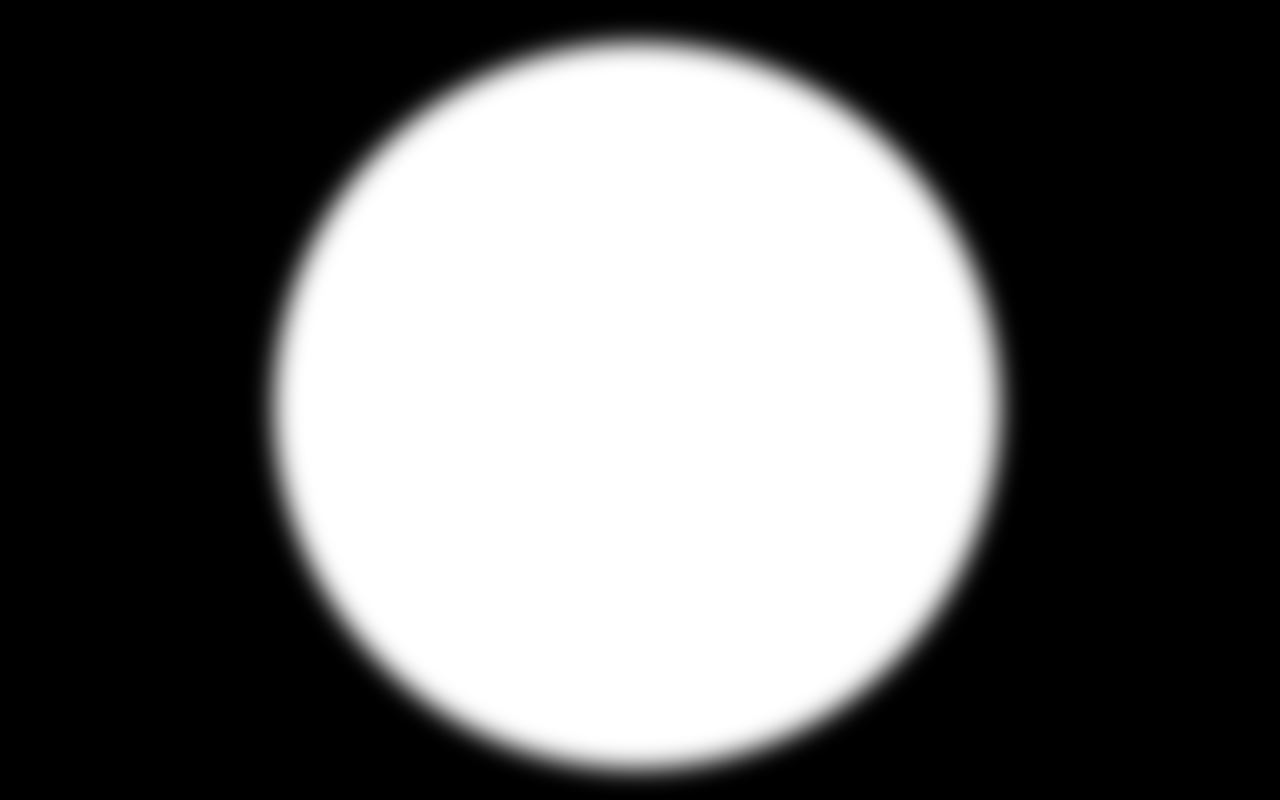
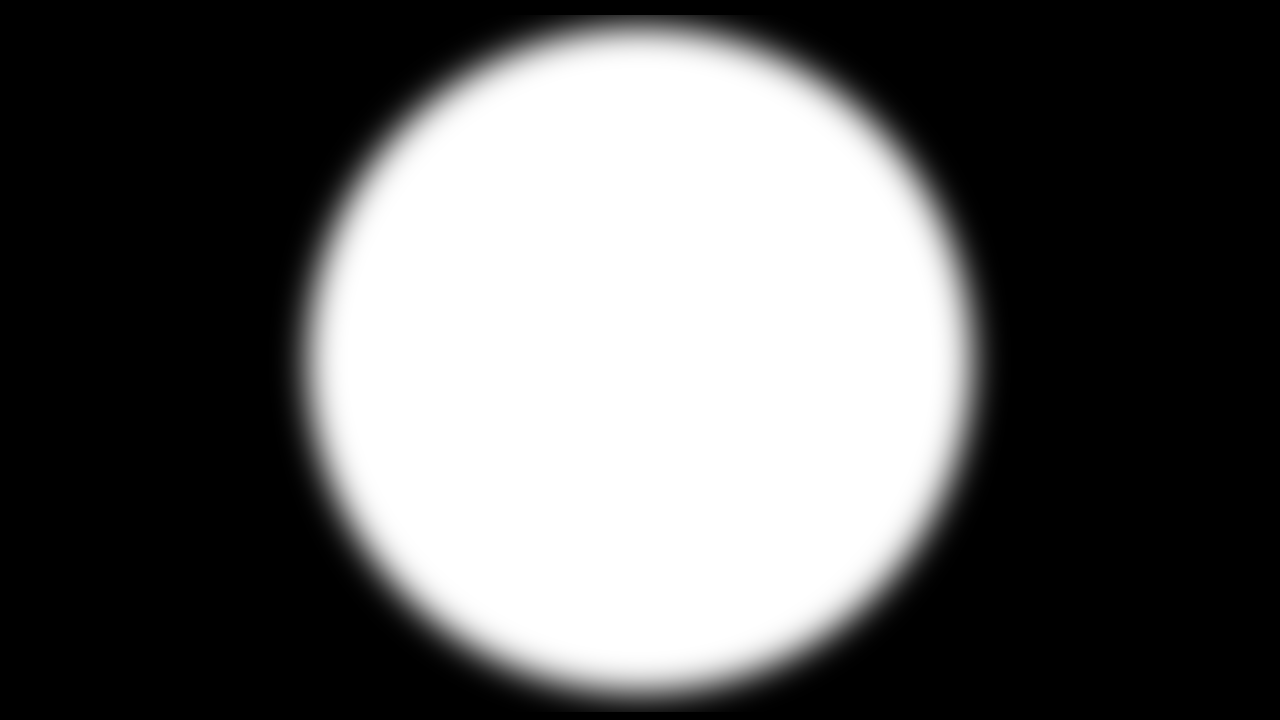
ok

Changed region(s): [[0.1875, 0.0, 0.8125, 1.0]]

diff --git a/src/ofApp.cpp b/src/ofApp.cpp
@@ -29,6 +29,11 @@ void ofApp::setup()
     gui.setup(jentikcam.parameters);
     gui.add(btntest.setup("DESTROY"));
 
+
+    cout << ofGetWidth() << "\n";
+    cout << ofGetHeight() << "\n";
+
+
     ofAddListener(gui.savePressedE, this, &ofApp::guiSave);
     ofAddListener(gui.loadPressedE, this, &ofApp::guiLoad);
 
@@ -45,6 +50,10 @@ void ofApp::setup()
 
     effectsFBO.allocate(ofGetWidth(), ofGetHeight());
     fxGlitch.setup(&effectsFBO);
+
+    light.setup("192.168.43.66", 8888);
+
+    bGui = false;
 
 }
 
@@ -76,7 +85,8 @@ void ofApp::draw()
     ofBackground(0);
     fxGlitch.generateFx();
     effectsFBO.draw(0,0);
-    gui.draw();
+
+    if(bGui) gui.draw();
 }
 
 void ofApp::keyPressed(int key)
@@ -88,9 +98,18 @@ void ofApp::keyPressed(int key)
         case 'f':
             ofToggleFullscreen();
             break;
+        case 'b':
+            bGui = !bGui;
+        break;
         case ' ':
             sceneManager.changeScene();
             break;
+        case 'l':
+                ofxOscMessage m;
+                m.setAddress("/relay");
+                m.addFloatArg(1.0f);
+                light.sendMessage(m, false);
+        break;
     }
 
     if (key == '1') fxGlitch.setFx(OFXPOSTGLITCH_CONVERGENCE	, true);
@@ -109,6 +128,10 @@ void ofApp::keyPressed(int key)
     if (key == 'r') fxGlitch.setFx(OFXPOSTGLITCH_CR_GREENRAISE	, true);
     if (key == 't') fxGlitch.setFx(OFXPOSTGLITCH_CR_BLUEINVERT	, true);
     if (key == 'y') fxGlitch.setFx(OFXPOSTGLITCH_CR_REDINVERT	, true);
+
+
+
+
 }
 
 void ofApp::keyReleased(int key)

diff --git a/src/videomanager.cpp b/src/videomanager.cpp
@@ -181,7 +181,9 @@ void videoManager::draw()
         colorImg.draw(0,0);
         ofPushStyle();
             ofNoFill();
-            ofSetHexColor(0xffffff);
+            ofSetLineWidth(3);
+            ofSetColor(ofColor::white);
+//            ofSetHexColor(ofColor::green);
             for (int i = 0; i < contourFinder.nBlobs; i++){
                     ofDrawRectangle(contourFinder.blobs[i].boundingRect);
              }

diff --git a/src/ofApp.h b/src/ofApp.h
@@ -33,7 +33,7 @@ public:
 //    /// The buffer of images.
 //    std::vector<ofTexture> frameBuffer;
 
-    ofxOscSender sender;
+    ofxOscSender light;
     ofxOscReceiverSettings receiver;
     ofxOscParameterSync sync;
 
@@ -47,6 +47,8 @@ public:
 
     ofFbo effectsFBO;
     ofxPostGlitch fxGlitch;
+    ofxOscSender sender;
 
     bool bFullScreen;
+    bool bGui;
 };

diff --git a/src/WebcamScene.h b/src/WebcamScene.h
@@ -28,7 +28,6 @@ public:
     void draw(){
         ofClear(ofColor::black);
             ofPushMatrix();
-                ofScale( 1.125 ,1.125);
                 ofBackground(0);
                 videoMan->draw();
                 scene_jentik_assets.mask.draw(0,0);

diff --git a/src/ImageScene.cpp b/src/ImageScene.cpp
@@ -23,7 +23,7 @@ void ImageScene::update() {
 
 void ImageScene::draw() {
     ofClear(ofColor::black);
-    _background.draw(0,0,_width,_height);
+    _background.draw(0,0);
 }
 
 void ImageScene::willFadeIn() {
